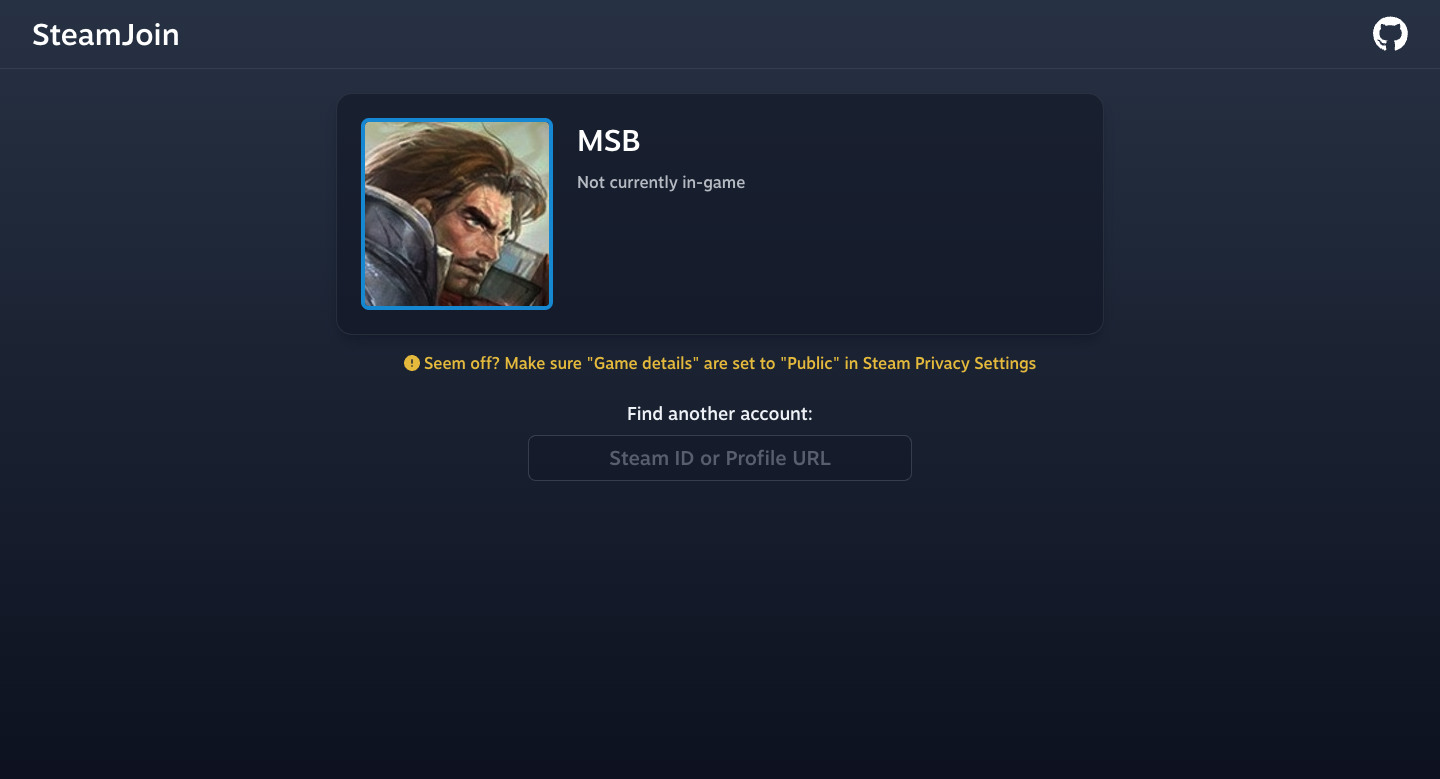
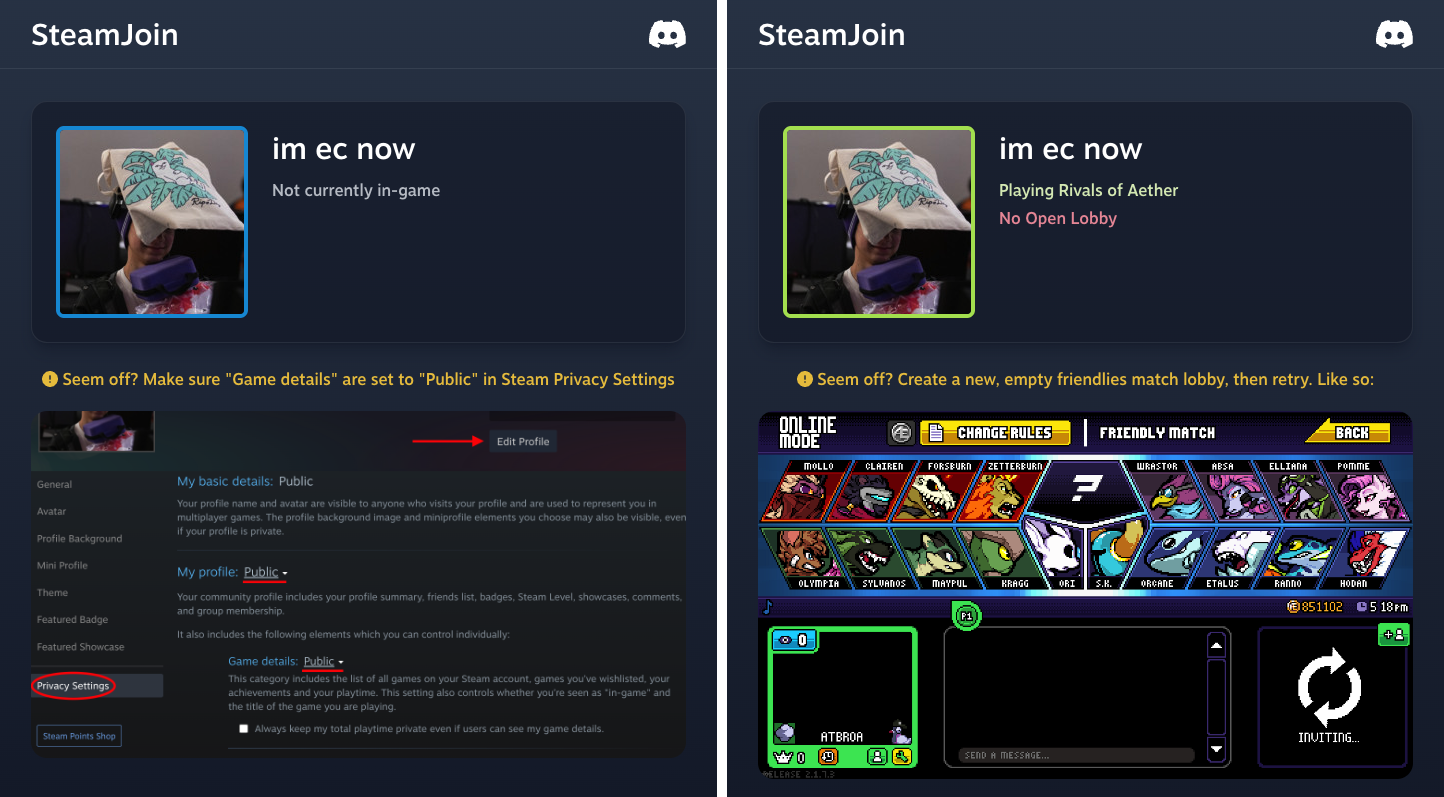
update screenshots and writeup for bot update

diff --git a/content/steamjoin/index.md b/content/steamjoin/index.md
@@ -2,25 +2,59 @@
 title: SteamJoin
 description: Utility for quick and seamless Steam matchmaking in gaming communities
 descShort: Gaming Community Utility
-userCount: Serves 500+ registered users
+userCount: Serves 750+ registered users
 link:
   live: https://steamjoin.com
   code: https://github.com/blair-c/SteamJoin
 section: projects
 ---
 
-Built with [Go](https://go.dev), [go-chi](https://go-chi.io), and [Tailwind CSS](https://tailwindcss.com)
+Built with [Go](https://go.dev), [go-chi](https://go-chi.io), [Tailwind CSS](https://tailwindcss.com), [discord.py](https://discordpy.readthedocs.io), and [redis](https://redis.io)
 
-SteamJoin was originally created as a supplement to [Mentorbot's](/mentorbot) `/invite` command, but also functions as a standalone service, allowing users to quickly and seamlessly invite others to their Steam games.
+SteamJoin was originally created as a supplement to [Mentorbot](/mentorbot) `/invite` command, but now functions as a separate Discord bot and standalone service allowing users to quickly and seamlessly invite others to their Steam games.
 
-## Core Functionality
+## The Problem
 
-At its core, SteamJoin simply requests and parses Steam API responses, then uses the [Steam browser protocol](https://developer.valvesoftware.com/wiki/Steam_browser_protocol) to redirect into Steam on success.
+Over the years of the game's lifespan, the [Rivals of Aether](https://rivalsofaether.com/) gaming community's preferred method to organize tournament matches evolved from using Steam search, to sharing your Steam Friend ID, to finally using Steam lobby links. This final process entails keeping a tab open of your own Steam profile, and copying the `Join Game` button to send to each new opponent, who then copy/pastes this link back into their own browser.
+
+{{< figure
+    src="img/old-method.png"
+    alt="Players sending lobby links back and forth for their tournament matches, dated July 2023"
+    caption="Chat logs of the last amateur bracket before SteamJoin was created"
+>}}
+
+This came to be the standard by being the least involved process with the tools available, but we can definitely make it better.
+
+## The Solution Pt. 1
+
+To improve the UX of inviting, the process should be kept entirely within Discord rather than requiring that a Steam window of the user's profile remain on hand. Using Discord's API and integrated app/bot platform stands out as the clear answer, making the process now as simple as typing `/invite` in the chat.
+
+![Screenshot of /invite in use](img/discord-invite.png)
+
+On first use, users first input their Steam ID or profile link, which is then stored persistently in a [Redis Database](https://redis.io/docs/management/persistence). At the time of writing, over 750 users have linked their accounts.
+
+![Discord popup asking the user to link their Steam account](img/discord-register.png)
+
+If a problem is faced along the way, the user is given troubleshooting instructions.
+
+![Screenshot of a couple ways Steam user settings can interfere with SteamJoin](img/discord-failure.png)
+
+## The Glow Pt. 2
+
+Now to improve the UX of the player being invited, we need a clickable join game link rather than one that needs to be copy/pasted into a browser.
+
+At its core, **steamjoin.com** simply requests and parses Steam API responses, then uses the [Steam browser protocol](https://developer.valvesoftware.com/wiki/Steam_browser_protocol) to redirect into Steam on success.
 
 ![Screenshot of the browser asking permission to open Steam and join game](img/success.png)
 
-If a problem is faced, troubleshooting instructions are displayed instead.
+The same troubleshooting instructions as on Discord are displayed if a problem is faced.
 
-![Screenshot of a user not currently in-game, with the possibility their profile has this information set to private](img/failure.png)
+![Screenshot of the same common issues as before, now on steamjoin.com](img/failure.png)
 
 [go-chi](https://go-chi.io) dynamic routing and JavaScript unify the search and redirect implementation, and a single [Go Template](https://pkg.go.dev/text/template) is styled with [Tailwind CSS](https://tailwindcss.com) before server rendering response.
+
+## Result
+
+All in all, this comes together to create a much more quick and seamless user experience: We've gone from players needing to Alt+Tab and copy/paste across three different programs to everything being done through Discord.
+
+Upon its release, SteamJoin quickly became the standard for tournament and general matchmaking across the game's community.
